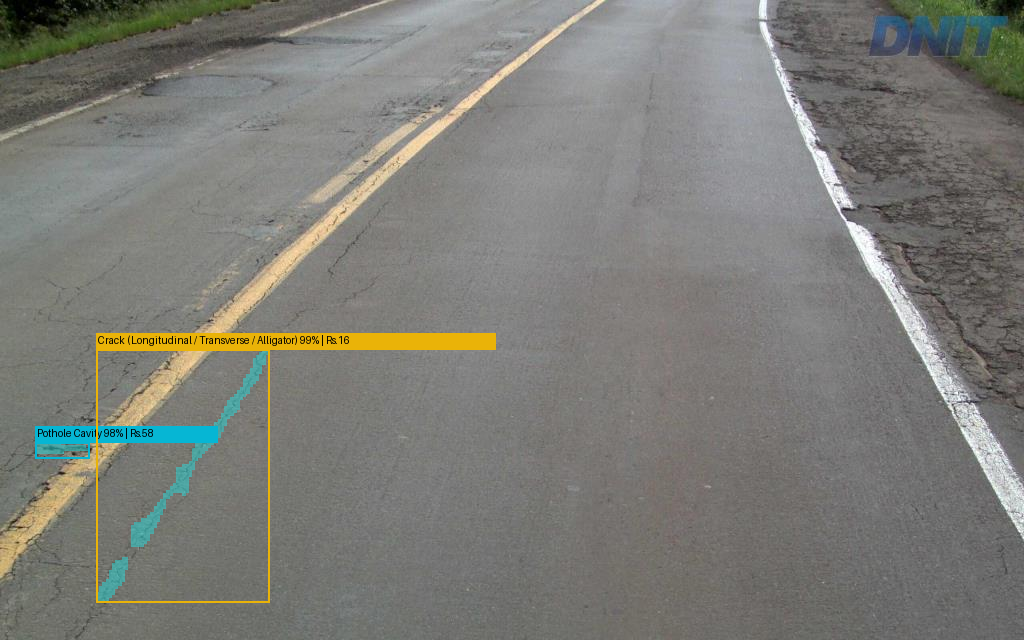
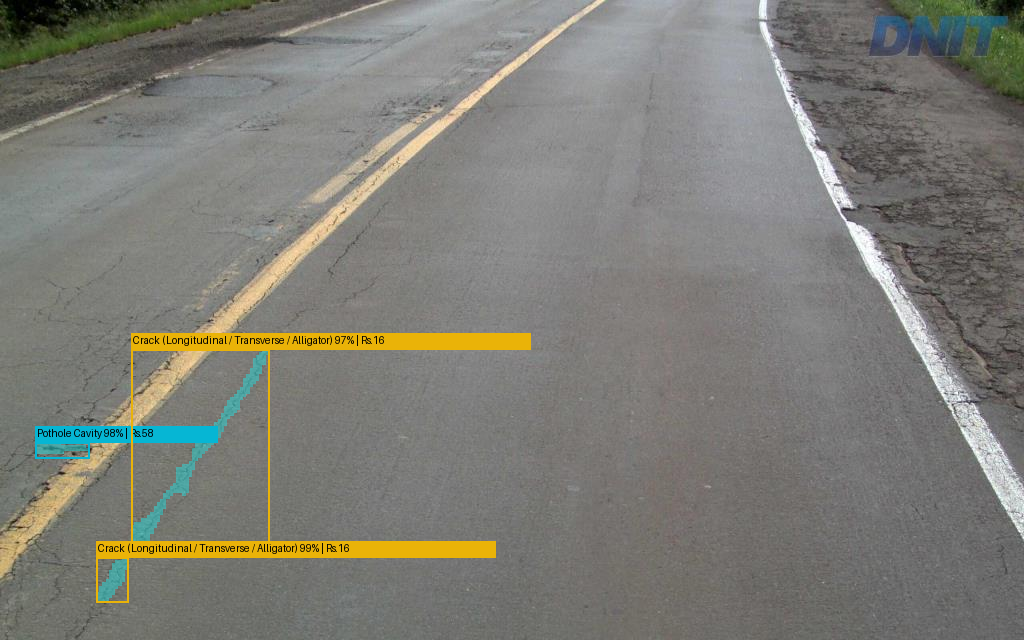
fix(pipeline): prevent transitive mega-box chaining and preserve discrete foreground defect proposals

Changed region(s): [[0.0938, 0.8438, 0.5, 0.875], [0.0938, 0.5, 0.3438, 0.5625], [0.4688, 0.5, 0.5312, 0.5625]]

diff --git a/api/vercel_inference.py b/api/vercel_inference.py
@@ -791,9 +791,9 @@ def _fuse_and_cluster_boxes(raw_boxes, W, H, max_boxes=3):
             comb_h = max(y2, cy2) - min(y1, cy1)
             gap_x = max(0, max(x1, cx1) - min(x2, cx2))
             gap_y = max(0, max(y1, cy1) - min(y2, cy2))
-            is_proximate = (gap_x <= int(W * 0.08) and gap_y <= int(H * 0.06) and comb_w <= int(W * 0.78) and comb_h <= int(H * 0.60))
+            is_proximate = (gap_x <= int(W * 0.04) and gap_y <= int(H * 0.03) and comb_w <= int(W * 0.40) and comb_h <= int(H * 0.30))
 
-            if iou >= 0.15 or containment >= 0.35 or is_proximate:
+            if iou >= 0.18 or containment >= 0.40 or is_proximate:
                 matched.append(ci)
         if not matched:
             clusters.append([b])
@@ -1196,7 +1196,7 @@ def audit_image_base64(image_b64, corridor_id="NH-44", device_id=None, latitude=
             if not (crop_is_distress or frame_is_distress):
                 continue
             box_area_share = (bw * bh) / float(W * H)
-            if box_area_share < 0.015 and cls_info["confidence"] < 0.85:
+            if box_area_share < 0.012 and cls_info["confidence"] < 0.72:
                 continue
 
         # Class determination: pavement distress must strictly be Crack, Pothole, or Waterlogging
@@ -1333,13 +1333,13 @@ def audit_image_base64(image_b64, corridor_id="NH-44", device_id=None, latitude=
                 comb_w = max(b1[0] + b1[2], b2[0] + b2[2]) - min(b1[0], b2[0])
                 comb_h = max(b1[1] + b1[3], b2[1] + b2[3]) - min(b1[1], b2[1])
                 is_proximate = (
-                    gap_x <= int(W * 0.08)
-                    and gap_y <= int(H * 0.06)
-                    and comb_w <= int(W * 0.78)
-                    and comb_h <= int(H * 0.60)
+                    gap_x <= int(W * 0.04)
+                    and gap_y <= int(H * 0.03)
+                    and comb_w <= int(W * 0.40)
+                    and comb_h <= int(H * 0.30)
                 )
 
-                if iou > 0.15 or containment > 0.30 or is_proximate:
+                if iou > 0.18 or containment > 0.40 or is_proximate:
                     matched = mi
                     break
 
